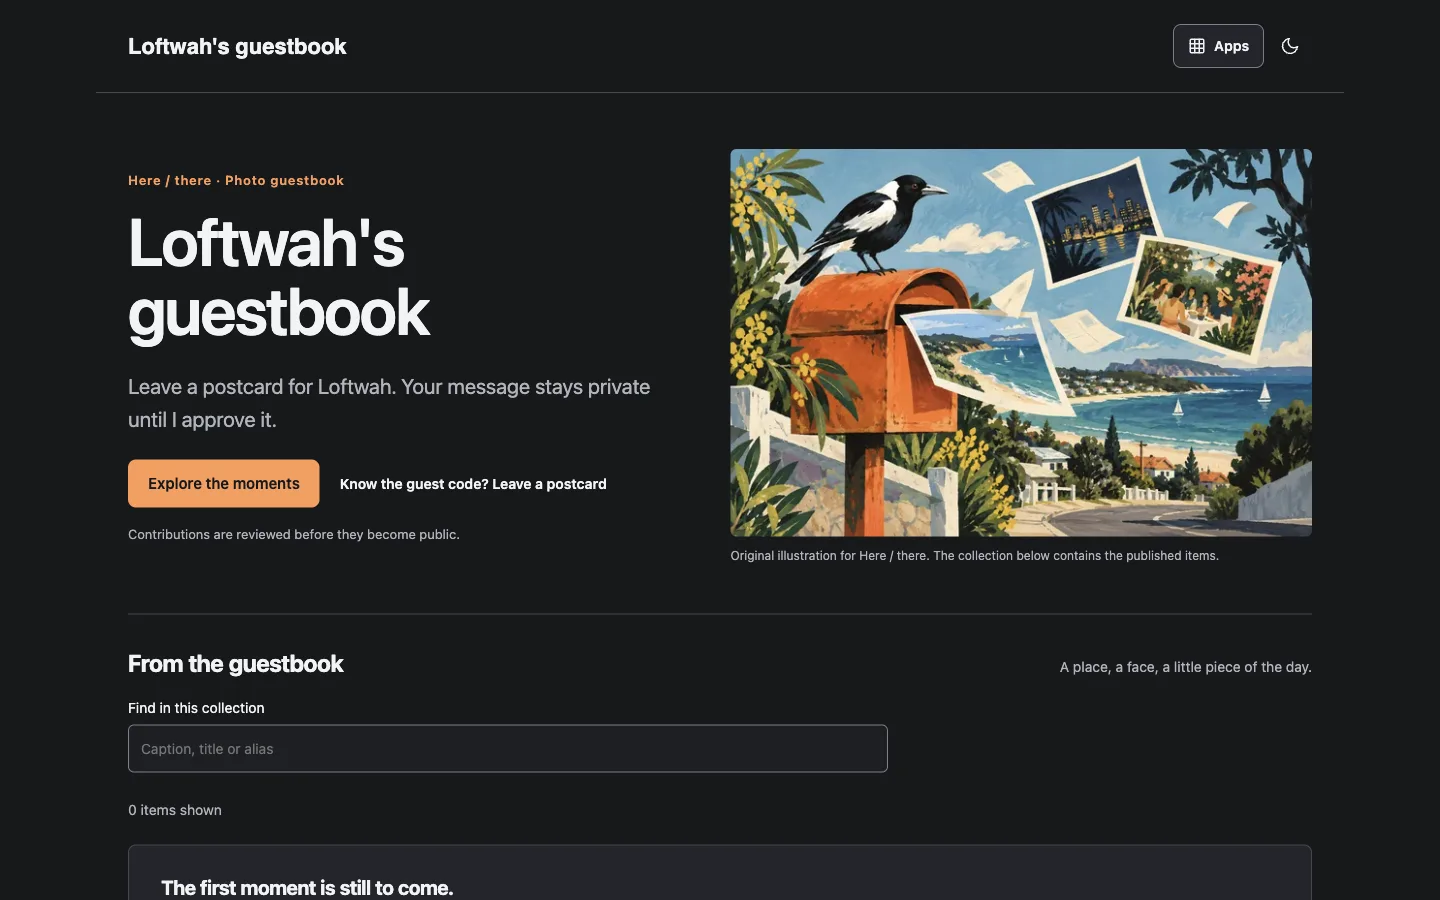
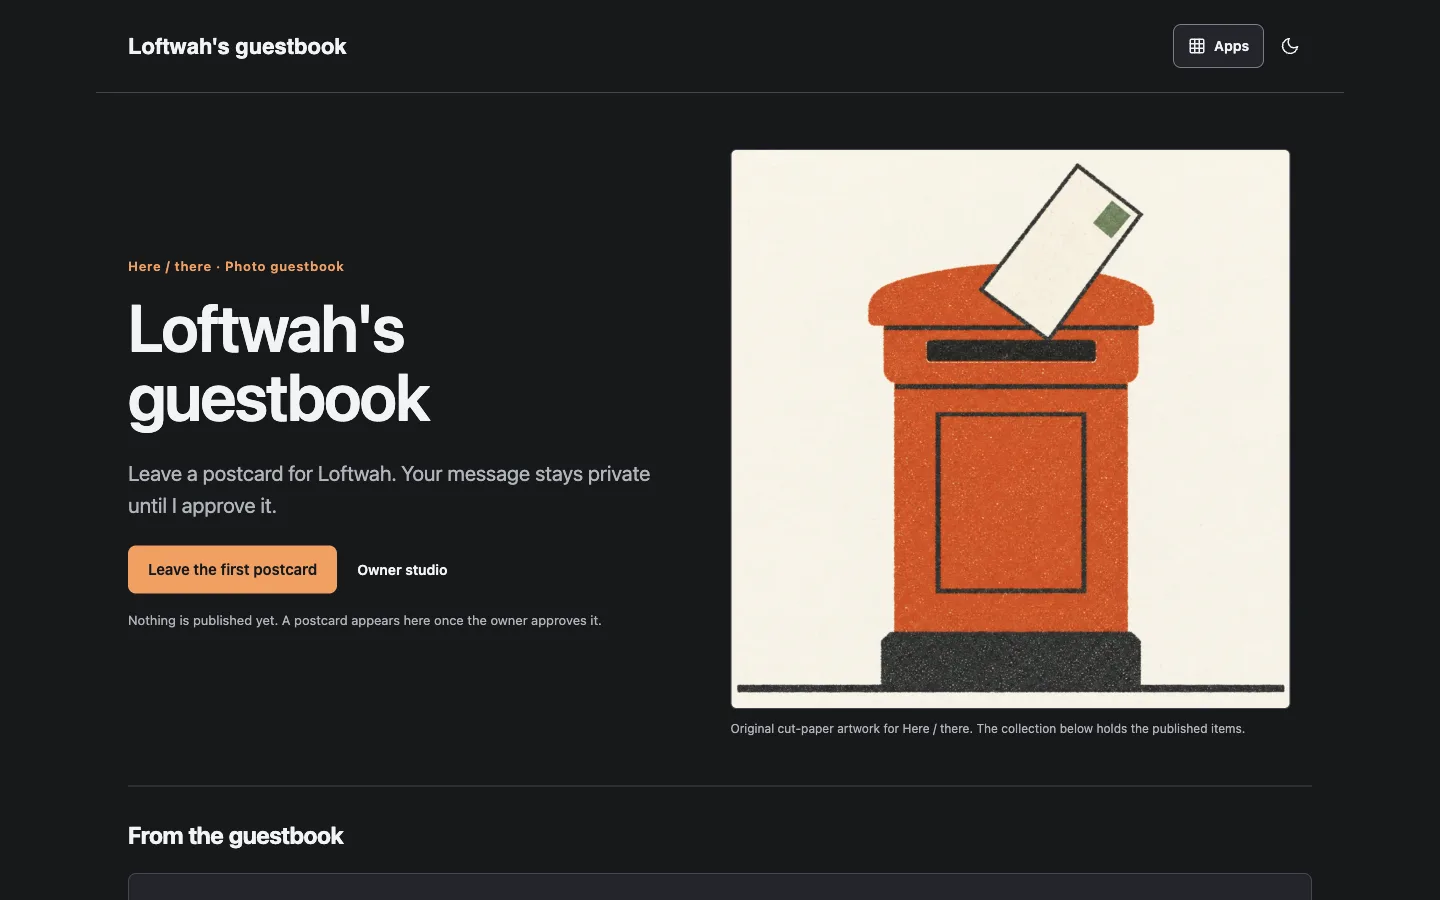
Describe the reviewed artwork truthfully and lock the font preload
Follow-ups from the same review pass, all evidence based.

- apps.ts: the Linkarooie share card is described as it is (a green paper
  kangaroo beside a two-link burnt-orange chain), the Here / there card as a
  postcard slipping into the postbox slot with a permission-green stamp, and the
  Linkarooie preview alt now names the region that the capture actually shows.
- provenance.json: the same three subjects corrected against the masters.
- .artwork/marks/authored/herethere.svg matches the shipped guestbook mark.svg
  byte for byte, so the authored master is not a lookalike.
- Remove brand assets nothing references any more: guestbook/showcase/share
  png+svg and share-ai-v1. courtyard-ai-v1 and coastal-path-ai-v1 stay because
  app-preview.ts, learn.astro and demo.astro still render them.
- The reported unused display-font preload was reproduced on live Composer
  pages. The request is a single link-initiated fetch that the one declared face
  consumes, so the preload stays and tests/font-preload.test.mjs now fails if the
  preload, the @font-face source or the family that headings ask for drift apart.
- Here / there preview recaptured from the live app after its release.

Checks: pnpm check clean (astro check + 328 tests).

diff --git a/src/lib/apps.ts b/src/lib/apps.ts
@@ -6,8 +6,8 @@
 // never generated; the capture date travels with the file so staleness is visible.
 export const apps = [
   {id:'linkcheck',name:'Link Check',category:'Development',description:'Inspect site icons, share images and SEO, get contextual next steps and export a review report.',image:'/brand/apps/linkcheck-v3.webp',thumbnail:'/brand/apps/linkcheck-small-v3.webp',share:'/brand/apps/linkcheck-share-v3.jpg',shareAlt:'Link Check: a teal paper magnifier resting on a page card, with a burnt-orange landscape panel inside the lens.',preview:'/brand/apps/previews/linkcheck-960.webp',previewWide:'/brand/apps/previews/linkcheck-1440.webp',previewCaptured:'2026-10-17',previewAlt:'Link Check as it appears at share.loftwah.com: the public page URL field, the optional robots and sitemap checks, and the explanation of what it inspects.',href:'https://share.loftwah.com',standalone:'https://share.loftwah.com',source:'https://github.com/loftwah/app-composer-linkcheck'},
-  {id:'guestbook',name:'Here / there',category:'Publishing',description:'Collect photos and messages, review submissions and choose what to publish.',image:'/brand/apps/herethere-v3.webp',thumbnail:'/brand/apps/herethere-small-v3.webp',share:'/brand/apps/herethere-share-v3.jpg',shareAlt:'Here / there: a burnt-orange paper postbox releasing one ivory postcard with a permission-green corner.',preview:'/brand/apps/previews/herethere-960.webp',previewWide:'/brand/apps/previews/herethere-1440.webp',previewCaptured:'2026-10-17',previewAlt:'Here / there as it appears at guestbook.loftwah.com: the introduction, the reviewed collection with its search field, and the guest postcard entry.',href:'/guestbook/',standalone:'https://guestbook.loftwah.com',source:'https://github.com/loftwah/app-composer-guestbook'},
-  {id:'showcase',name:'Linkarooie',category:'Publishing',description:'Arrange your links and approved Here / there photos into a page.',image:'/brand/apps/linkarooie-v3.webp',thumbnail:'/brand/apps/linkarooie-small-v3.webp',share:'/brand/apps/linkarooie-share-v3.jpg',shareAlt:'Linkarooie: a lime paper kangaroo mid-hop beneath one separate burnt-orange chain link.',preview:'/brand/apps/previews/linkarooie-960.webp',previewWide:'/brand/apps/previews/linkarooie-1440.webp',previewCaptured:'2026-10-17',previewAlt:'Linkarooie as it appears at showcase.loftwah.com: a profile header with avatar, handle and links above the featured collection.',href:'/showcase/',standalone:'https://showcase.loftwah.com',source:'https://github.com/loftwah/app-composer-showcase'},
+  {id:'guestbook',name:'Here / there',category:'Publishing',description:'Collect photos and messages, review submissions and choose what to publish.',image:'/brand/apps/herethere-v3.webp',thumbnail:'/brand/apps/herethere-small-v3.webp',share:'/brand/apps/herethere-share-v3.jpg',shareAlt:'Here / there: a burnt-orange paper postbox with one ivory postcard slipping into its slot, stamped with a permission-green square.',preview:'/brand/apps/previews/herethere-960.webp',previewWide:'/brand/apps/previews/herethere-1440.webp',previewCaptured:'2026-10-17',previewAlt:'Here / there as it appears at guestbook.loftwah.com: the introduction, the stated empty collection and the guest postcard entry.',href:'/guestbook/',standalone:'https://guestbook.loftwah.com',source:'https://github.com/loftwah/app-composer-guestbook'},
+  {id:'showcase',name:'Linkarooie',category:'Publishing',description:'Arrange your links and approved Here / there photos into a page.',image:'/brand/apps/linkarooie-v3.webp',thumbnail:'/brand/apps/linkarooie-small-v3.webp',share:'/brand/apps/linkarooie-share-v3.jpg',shareAlt:'Linkarooie: a green paper kangaroo mid-hop beside a two-link burnt-orange paper chain on an App Composer share card.',preview:'/brand/apps/previews/linkarooie-960.webp',previewWide:'/brand/apps/previews/linkarooie-1440.webp',previewCaptured:'2026-10-17',previewAlt:'Linkarooie as it appears at showcase.loftwah.com: the owner\'s banner and portrait, the handle and introduction, the profile links and the profile share controls.',href:'/showcase/',standalone:'https://showcase.loftwah.com',source:'https://github.com/loftwah/app-composer-showcase'},
   {id:'hello',name:'Hello World',category:'Development',description:'Keep a small first application to prove your agent can build and deploy.',image:'/brand/apps/hello-v3.webp',thumbnail:'/brand/apps/hello-small-v3.webp',share:'/brand/apps/hello-share-v3.jpg',shareAlt:'Hello World: a burnt-orange paper archway with a graphite route line stepping through it toward an arrow.',preview:'/brand/apps/previews/hello-960.webp',previewWide:'/brand/apps/previews/hello-1440.webp',previewCaptured:'2026-10-17',previewAlt:'Hello World as it appears at ready.loftwah.com: the customised greeting, the deployment note and the link to inspect the exact build.',href:'https://ready.loftwah.com',standalone:'https://ready.loftwah.com',source:'https://github.com/loftwah/app-composer-hello'},
   {id:'state',name:'Carry / forward',category:'Identity & memory',description:'Try a portable assistant memory: keep a fictional profile in an encrypted file, reopen it and choose what to share.',image:'/brand/apps/carryforward-v3.webp',thumbnail:'/brand/apps/carryforward-small-v3.webp',share:'/brand/apps/carryforward-share-v3.jpg',shareAlt:'Carry / forward: a graphite paper suitcase beside a violet route line carrying two paper tags, one burnt orange and one ivory.',preview:'/brand/apps/previews/carryforward-960.webp',previewWide:'/brand/apps/previews/carryforward-1440.webp',previewCaptured:'2026-10-17',previewAlt:'Carry / forward as it appears at ai.loftwah.com: the fictional example, the three steps and the choice of which memories to copy.',href:'https://ai.loftwah.com',standalone:'https://ai.loftwah.com',source:'https://github.com/loftwah/app-composer-state'}
 ] as const;
